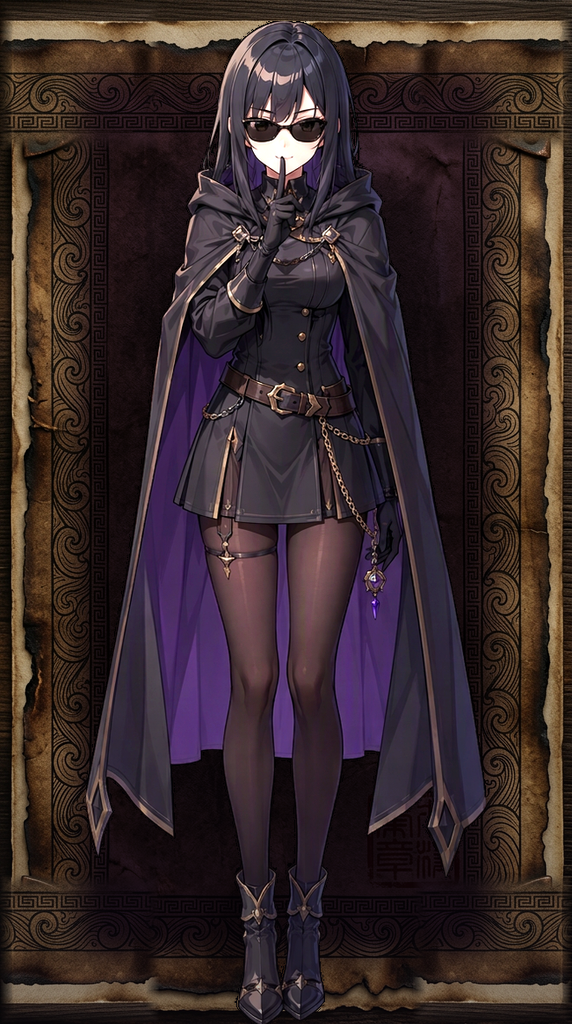
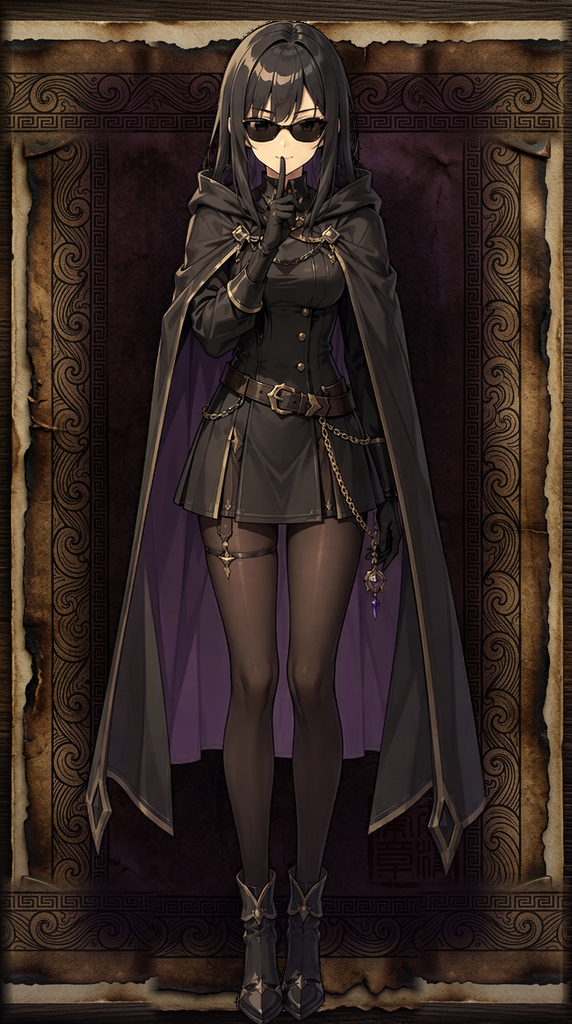
feat: 角色卡全量暗黑化调色统一——降饱和0.70+轻压亮+暖褐偏移(压蓝20%),20张与1号复古暗黑风格一致

diff --git a/scripts/_proc/compose_hero_cards.py b/scripts/_proc/compose_hero_cards.py
@@ -86,11 +86,16 @@ def night_inner(card, ix0, iy0, ix1, iy1):
     return Image.fromarray(arr.astype('uint8'), 'RGBA')
 
 def hero_layer(hero_path, scale_rel=1.0):
-    """完整立绘: 提亮 -> 实体bbox裁剪 -> 高度顶满卡高(scale_rel), 宽度溢出居中裁边"""
+    """完整立绘: 暗黑化调色(降饱和+暖褐偏移) -> 实体bbox裁剪 -> 高度顶满卡高"""
     hero = Image.open(hero_path).convert('RGBA')
-    hero = ImageEnhance.Brightness(hero).enhance(1.14)
-    hero = ImageEnhance.Contrast(hero).enhance(1.08)
-    hero = ImageEnhance.Color(hero).enhance(1.10)
+    hero = ImageEnhance.Color(hero).enhance(0.70)          # 去鲜艳
+    hero = ImageEnhance.Brightness(hero).enhance(0.97)     # 轻压亮
+    hero = ImageEnhance.Contrast(hero).enhance(1.10)
+    arr = np.asarray(hero).astype(np.float32)
+    arr[..., 0] = np.clip(arr[..., 0] * 1.03, 0, 255)      # 暖褐偏移: 压蓝提暖
+    arr[..., 1] = np.clip(arr[..., 1] * 0.97, 0, 255)
+    arr[..., 2] = np.clip(arr[..., 2] * 0.80, 0, 255)
+    hero = Image.fromarray(arr.astype('uint8'), 'RGBA')
     binm = np.asarray(hero.split()[3]) >= 128
     rowhit = binm.sum(axis=1) / binm.shape[1] > 0.02
     colhit = binm.sum(axis=0) / binm.shape[0] > 0.02
